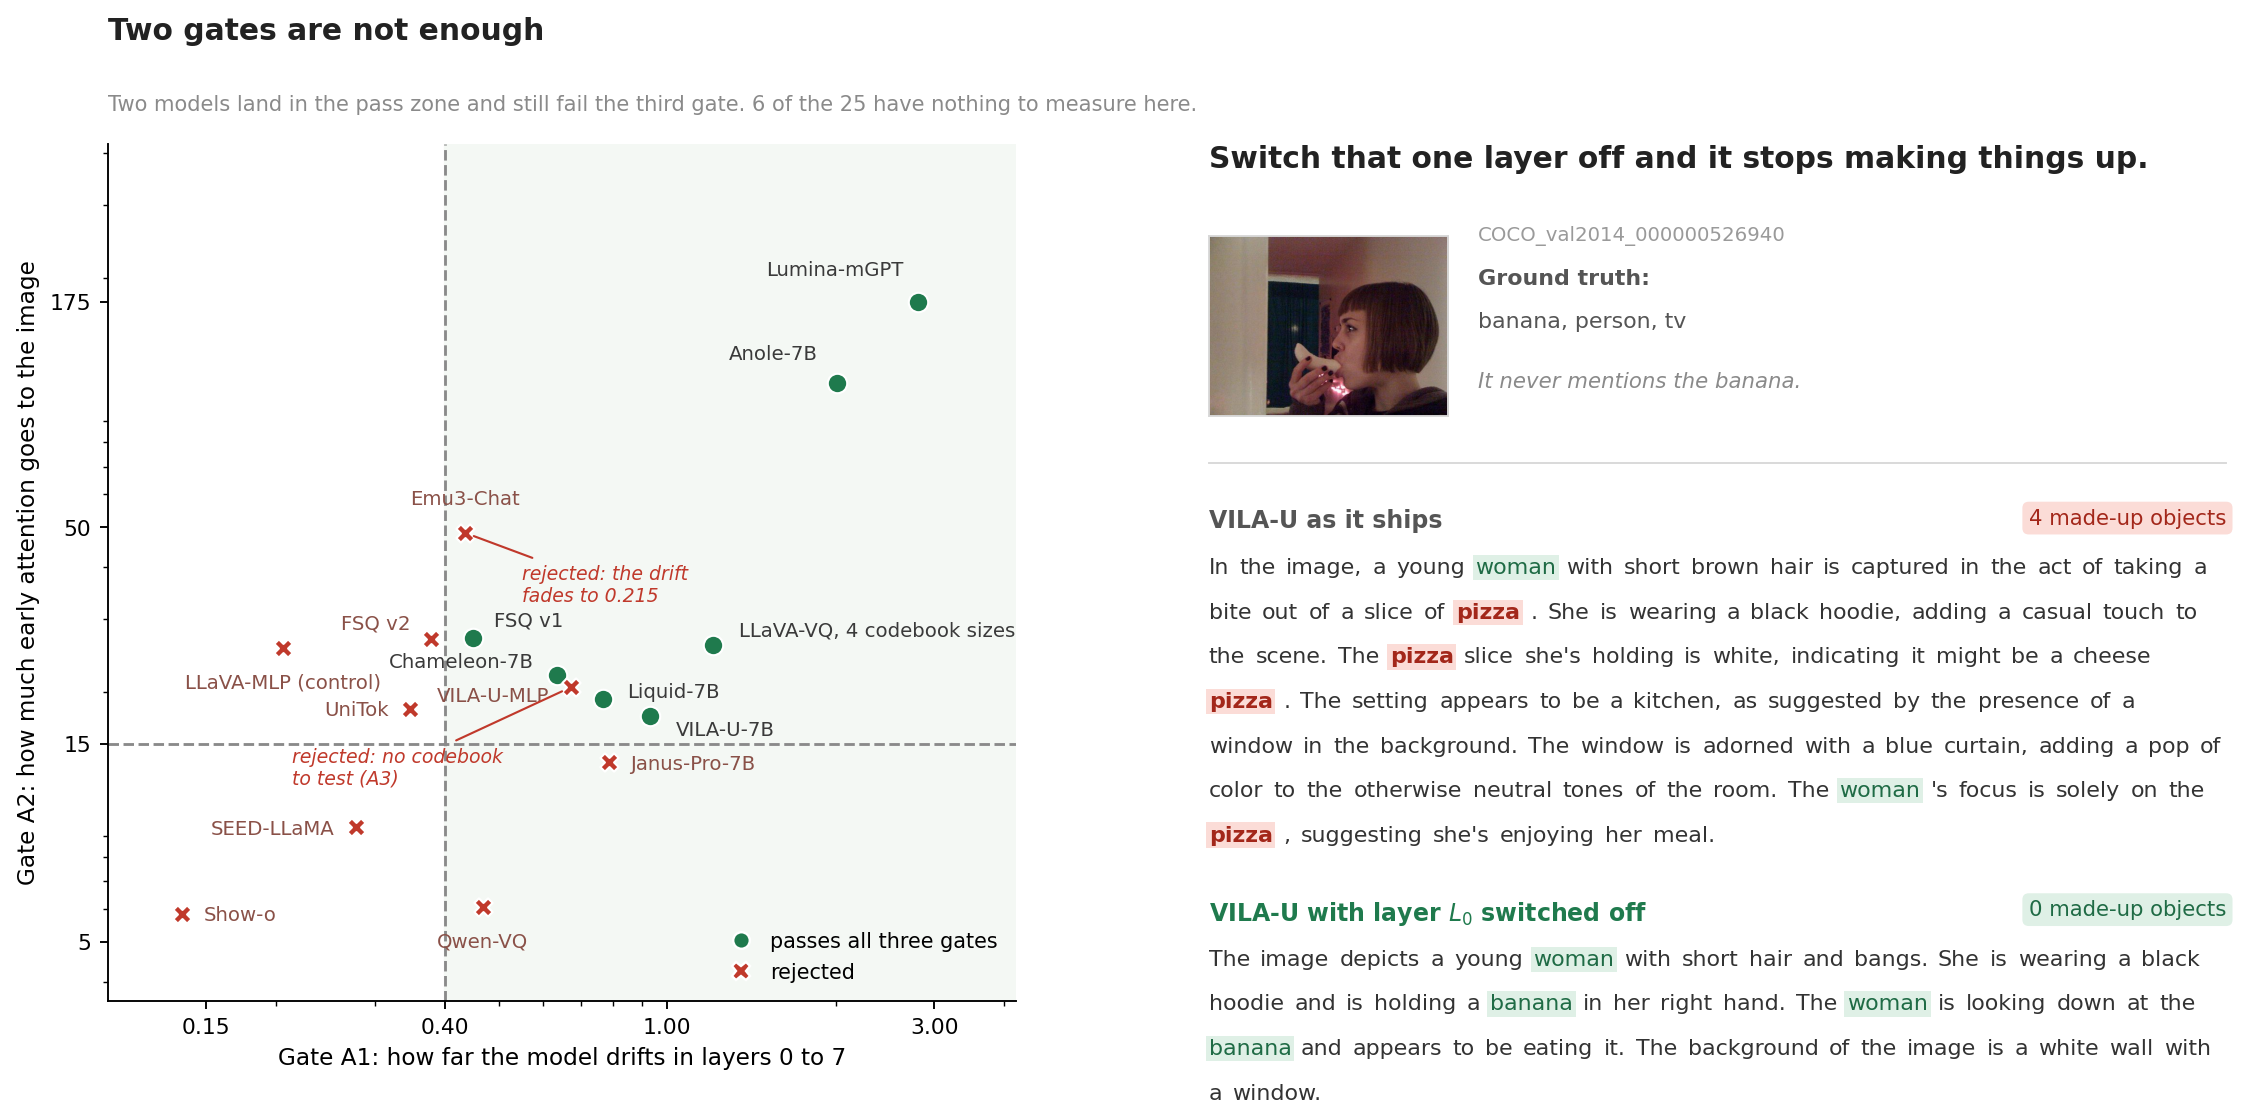
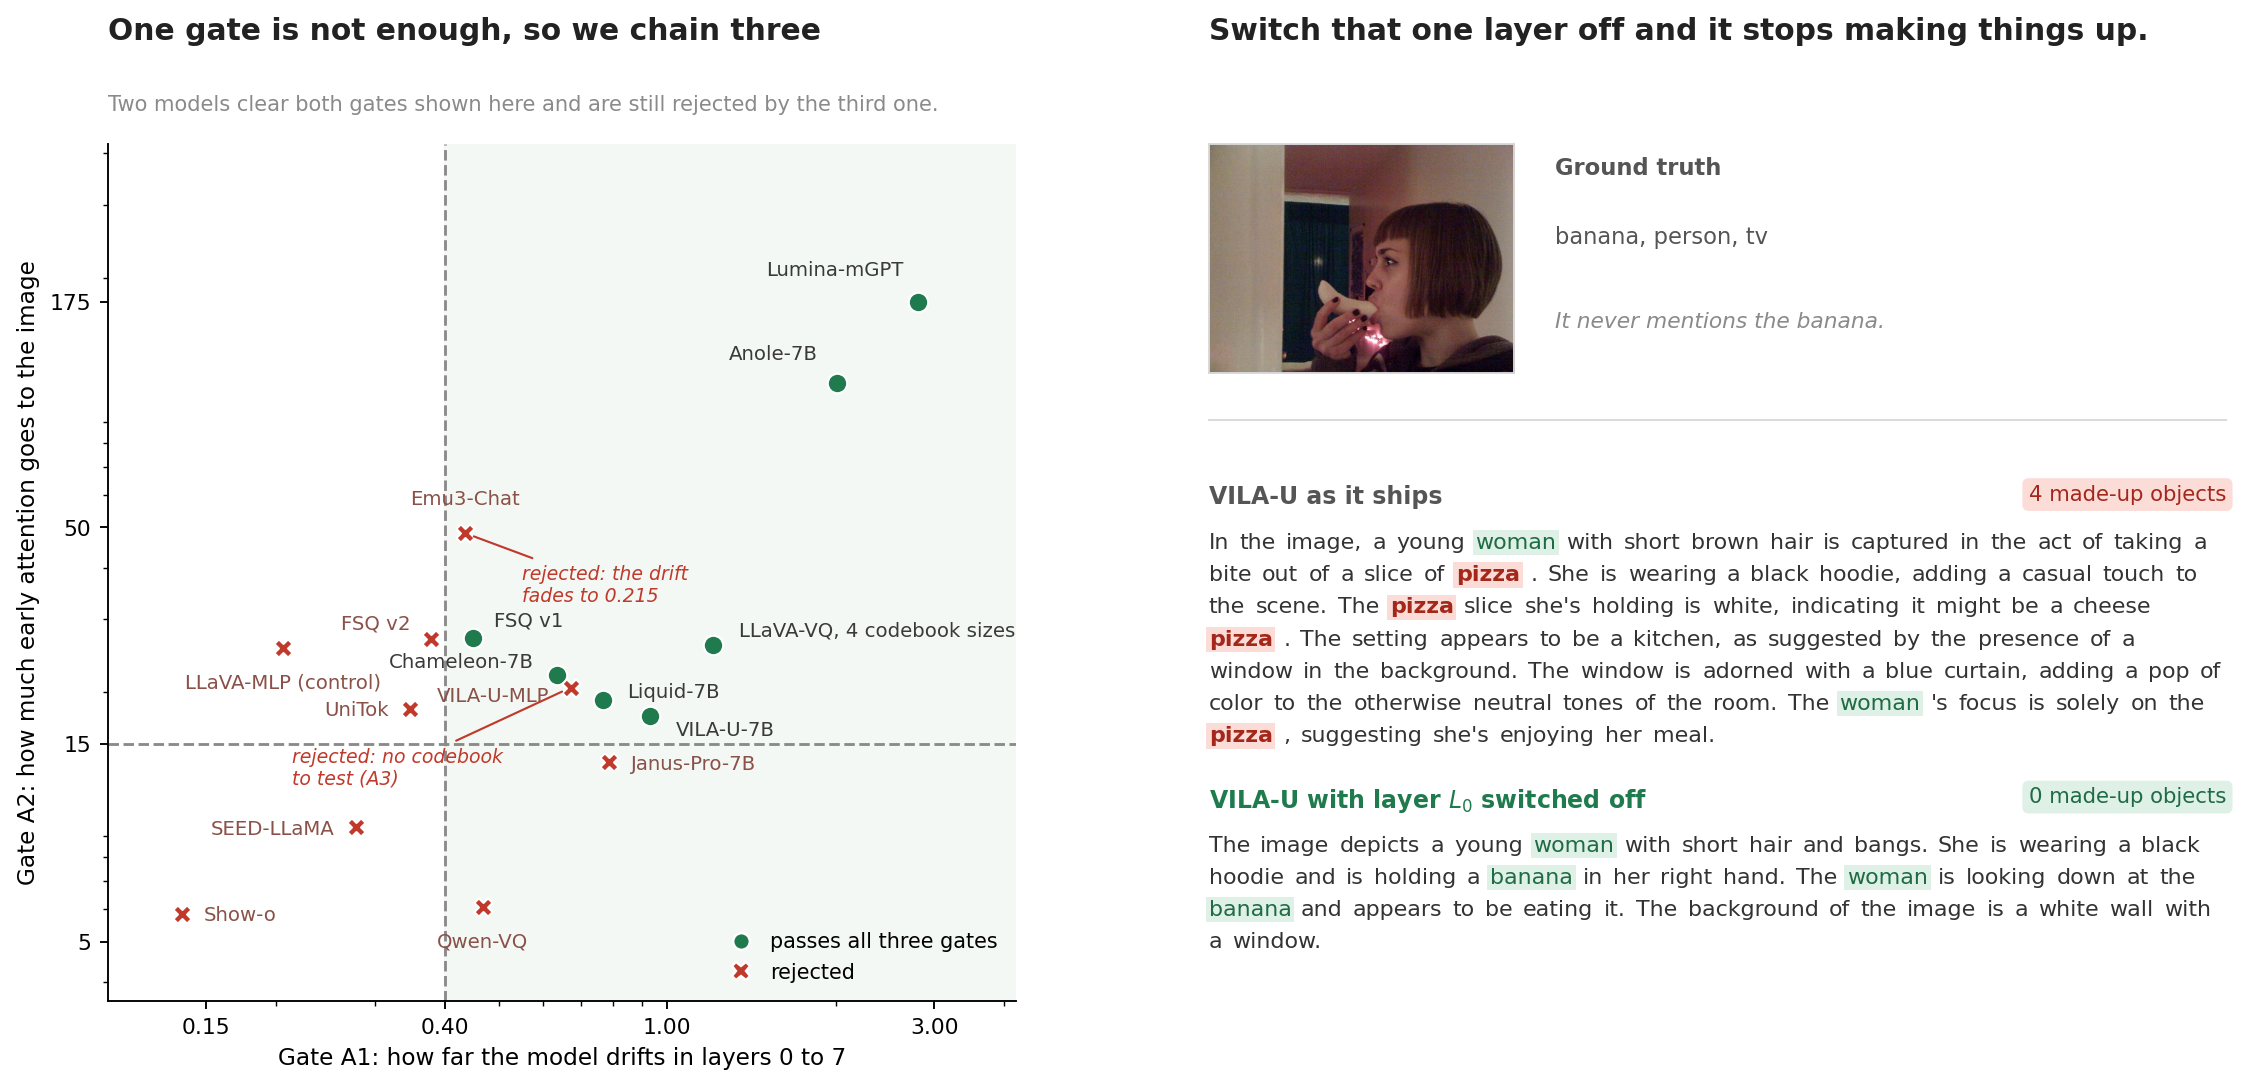
Teaser: chain headline, aligned panels, larger photo
- Headline is now about the chain rather than about two gates: "One gate is
  not enough, so we chain three".
- Both panel headings sit on the same line. The right one was a step lower
  because it was placed against the top of its own axes while the left one
  sat above the plot frame.
- Drop the COCO filename above the photo and make the photo about 28% wider.
  Its height is now derived from its width and the panel geometry, so it
  cannot stretch.
- Text no longer runs past the bottom. The line height was hard-coded at
  0.052 of the panel when the real line height at 9.4 pt is 0.037, so long
  captions overflowed. It is now computed from the font size and the panel
  height.

diff --git a/index.html b/index.html
@@ -459,8 +459,7 @@
   <div class="container is-max-desktop content">
     <h2 class="title is-3">BibTeX</h2>
     <p class="bibtex-note">
-      Citation to follow once the arXiv preprint is posted, and again once the EMNLP
-      proceedings appear.
+      Coming soon!
     </p>
     <!-- Paste the arXiv entry here when the preprint is up, then replace it with the
          ACL Anthology entry at publication:
